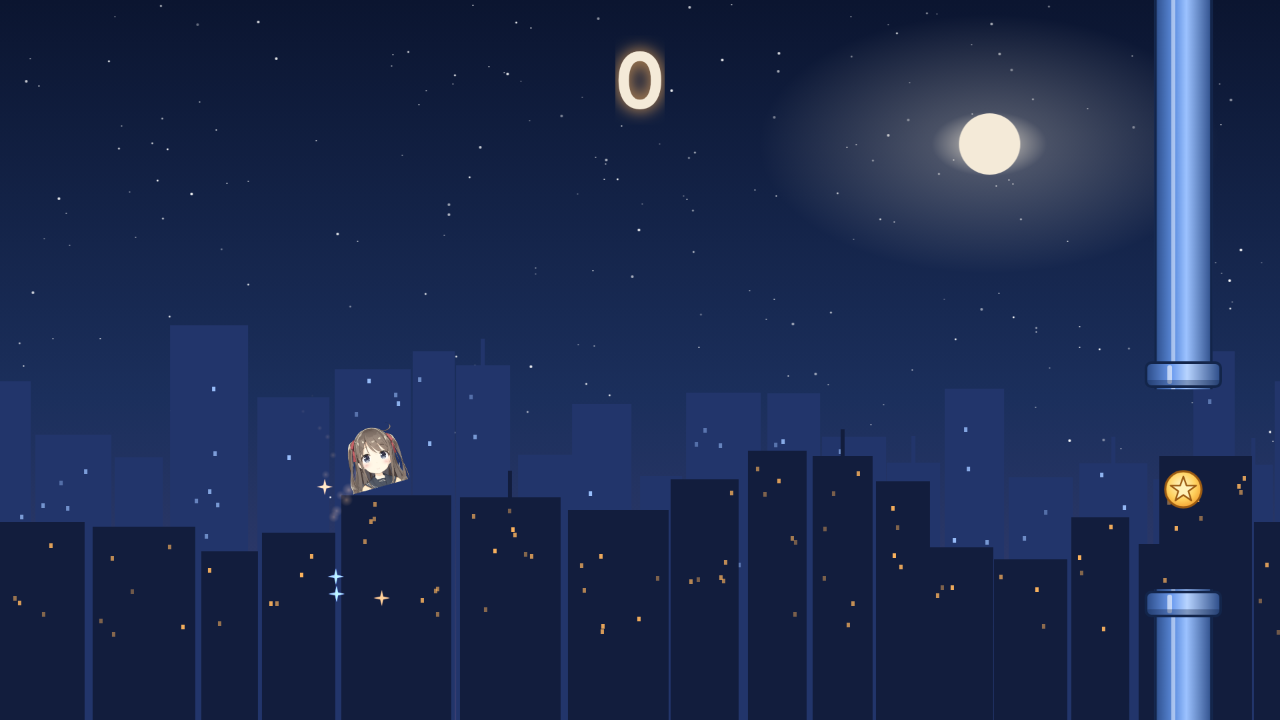
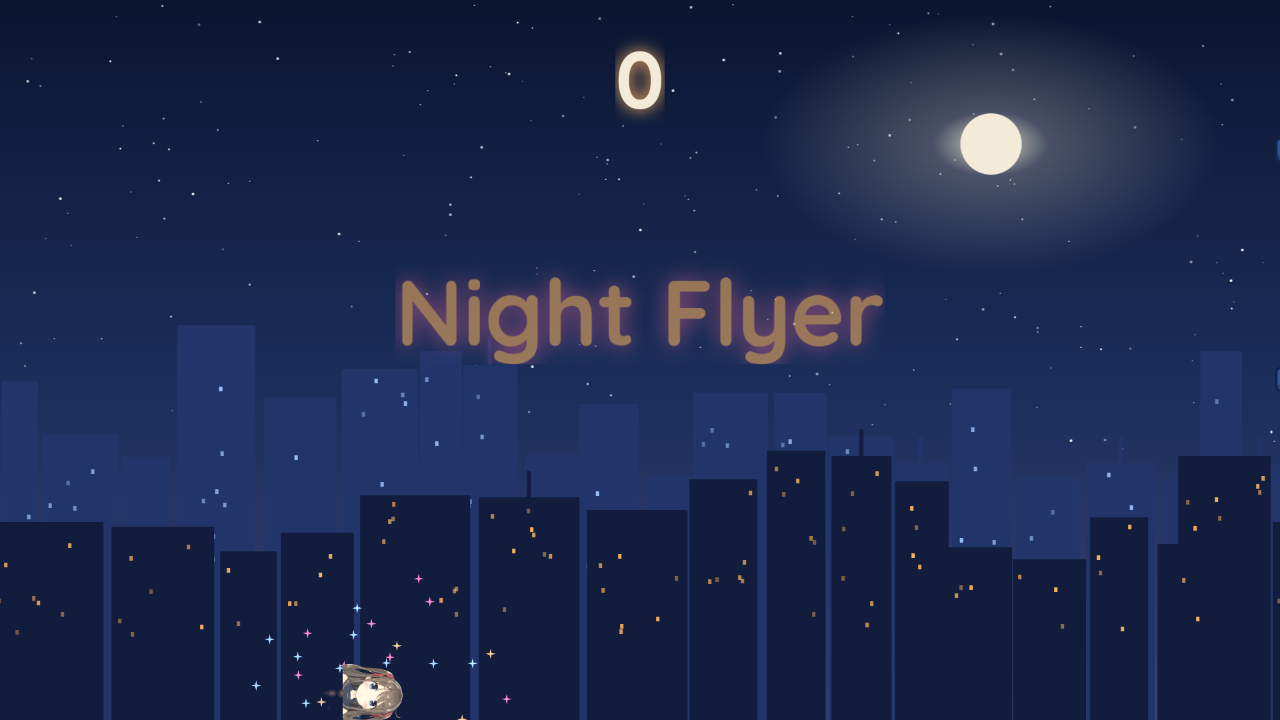
Publish flappy-bird-game-luna-bird-60d4 (requested by @you)

diff --git a/games/flappy-bird-game-luna-bird-60d4/index.html b/games/flappy-bird-game-luna-bird-60d4/index.html
@@ -6,11 +6,11 @@
 <style>
   :root {
     --night: #0f1d3a;
-    --dusk: #2a4a86;
+    --dusk:  #2a4a86;
     --glass: #9cc2ff;
-    --lamp: #ffb55e;
+    --lamp:  #ffb55e;
     --paint: #ff6f9c;
-    --mint: #5fe3c8;
+    --mint:  #5fe3c8;
     --paper: #f4ead8;
   }
   html, body { margin: 0; height: 100%; overflow: hidden; background: linear-gradient(var(--night), #1b2f5c); }
@@ -51,6 +51,8 @@ class Play extends Phaser.Scene {
   }
 
   create() {
+    this.input.keyboard.on('keydown-SPACE', () => this.flap());
+
     this.layers = [["sky", 0.03], ["far", 0.15], ["near", 0.4]].map(([key, factor]) => ({
       factor,
       parts: [0, 1920].map((x) => this.add.image(x, 0, key).setOrigin(0, 0)),
@@ -91,16 +93,8 @@ class Play extends Phaser.Scene {
     this.tweens.add({ targets: this.titleText, alpha: 0, scale: 1.15, delay: 1600, duration: 900 });
   }
 
-  autopilot() {
-    const next = this.pipes.find((p) => p.x + 60 > this.player.x);
-    if (next && next.aim === undefined) {
-      next.aim = Math.random() > SETTINGS.skill ? Phaser.Math.Between(-1, 1) * SETTINGS.gap * 0.8 : 0;
-    }
-    const target = next ? next.gapY + 40 + next.aim : 540;
-    if (this.player.y > target && this.vy > -80) this.flap();
-  }
-
   flap() {
+    if (!this.alive) return; // Prevent flapping when dead
     this.vy = SETTINGS.flap;
     this.burst.emitParticleAt(this.player.x - 30, this.player.y + 10, 4);
   }
@@ -162,7 +156,6 @@ class Play extends Phaser.Scene {
       return;
     }
 
-    this.autopilot();
     this.vy += SETTINGS.gravity * dt;
     this.player.y += this.vy * dt;
     this.player.angle = Phaser.Math.Clamp(this.vy / 12, -25, 70);
